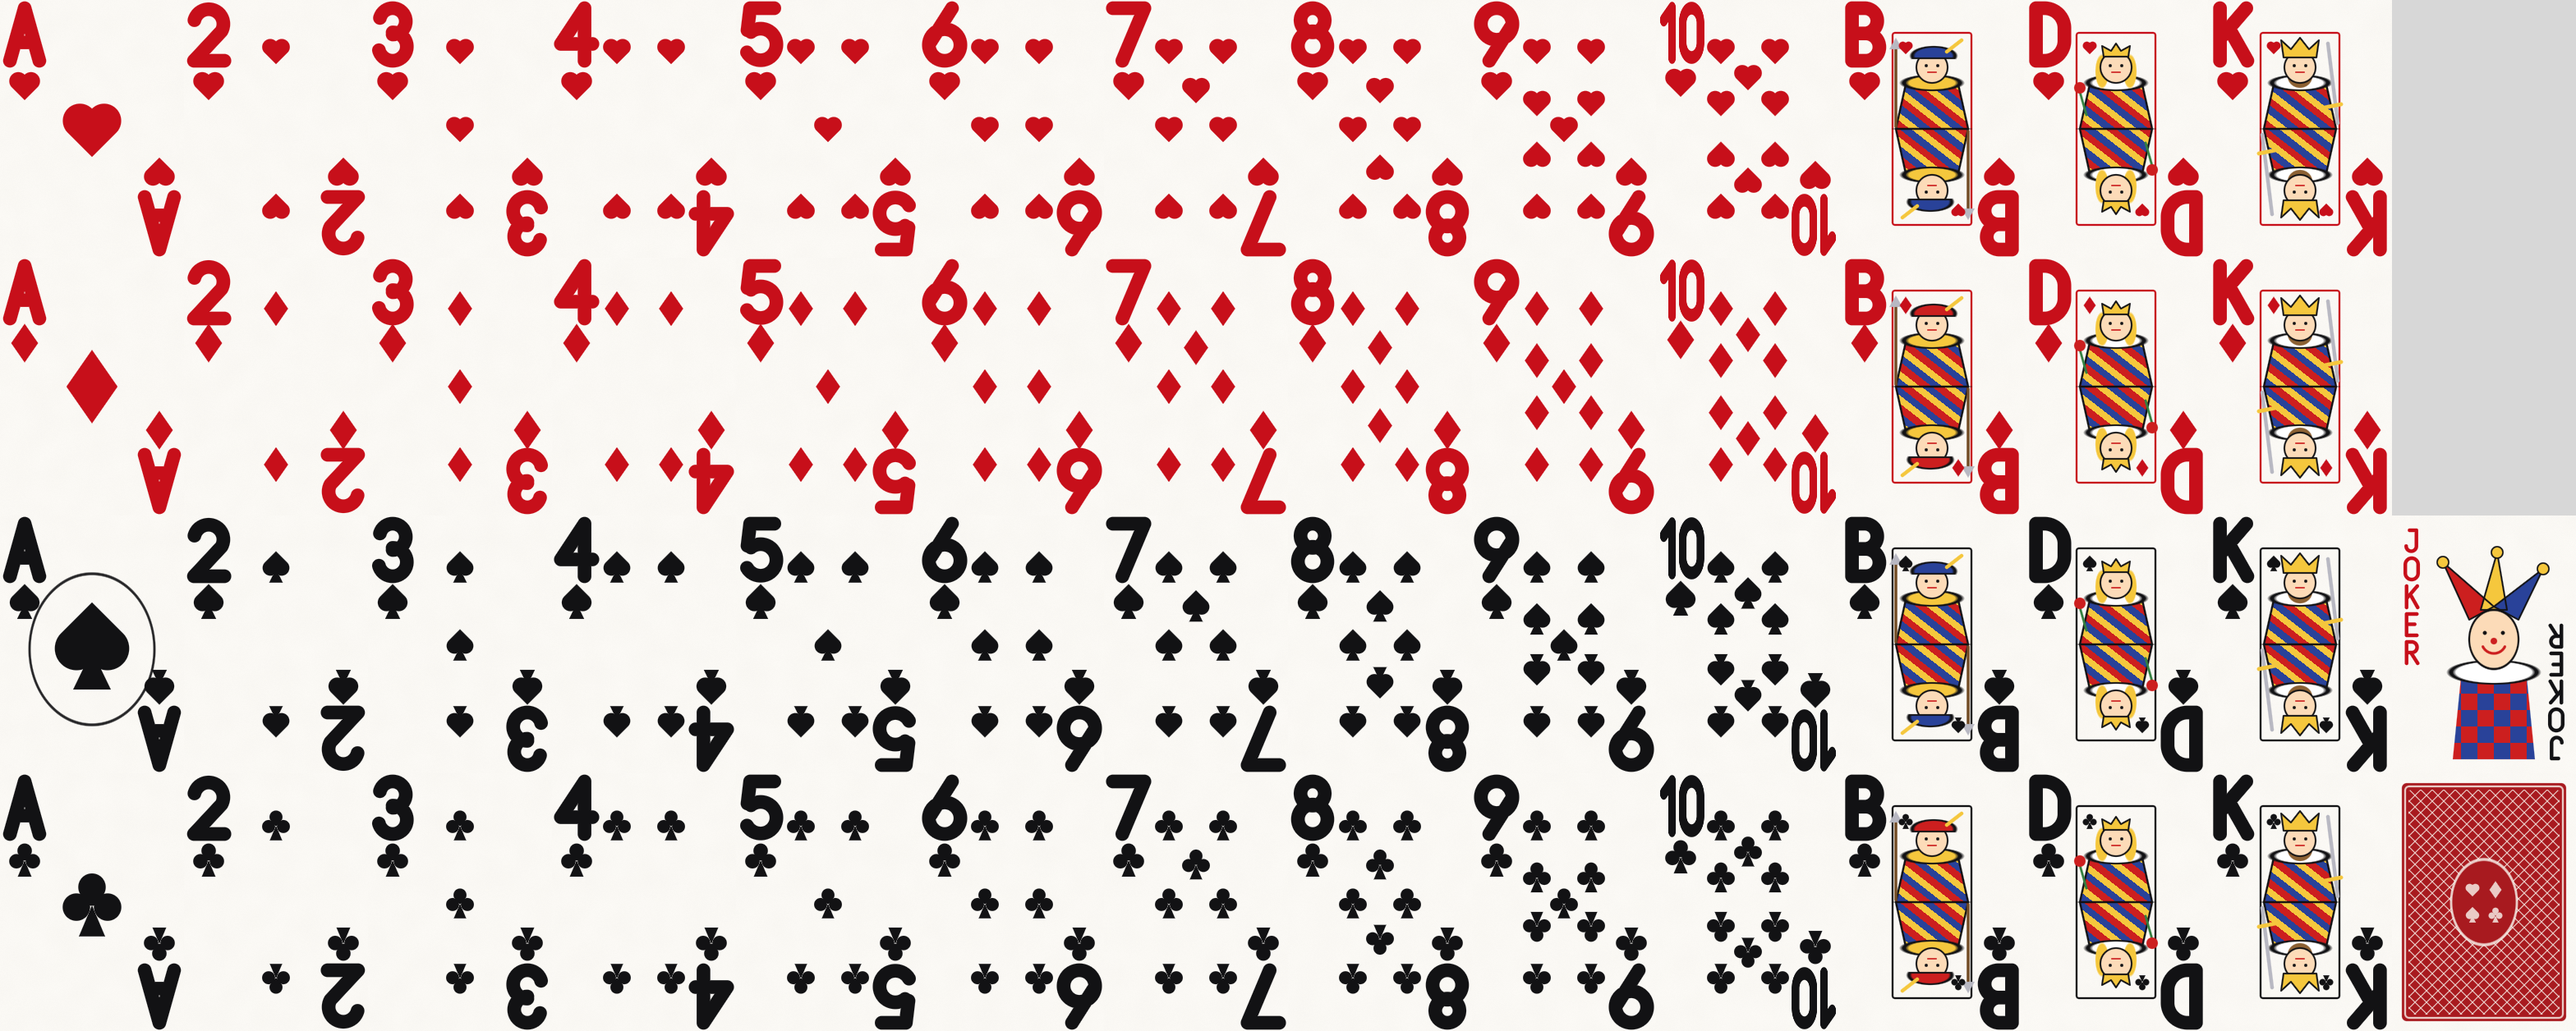
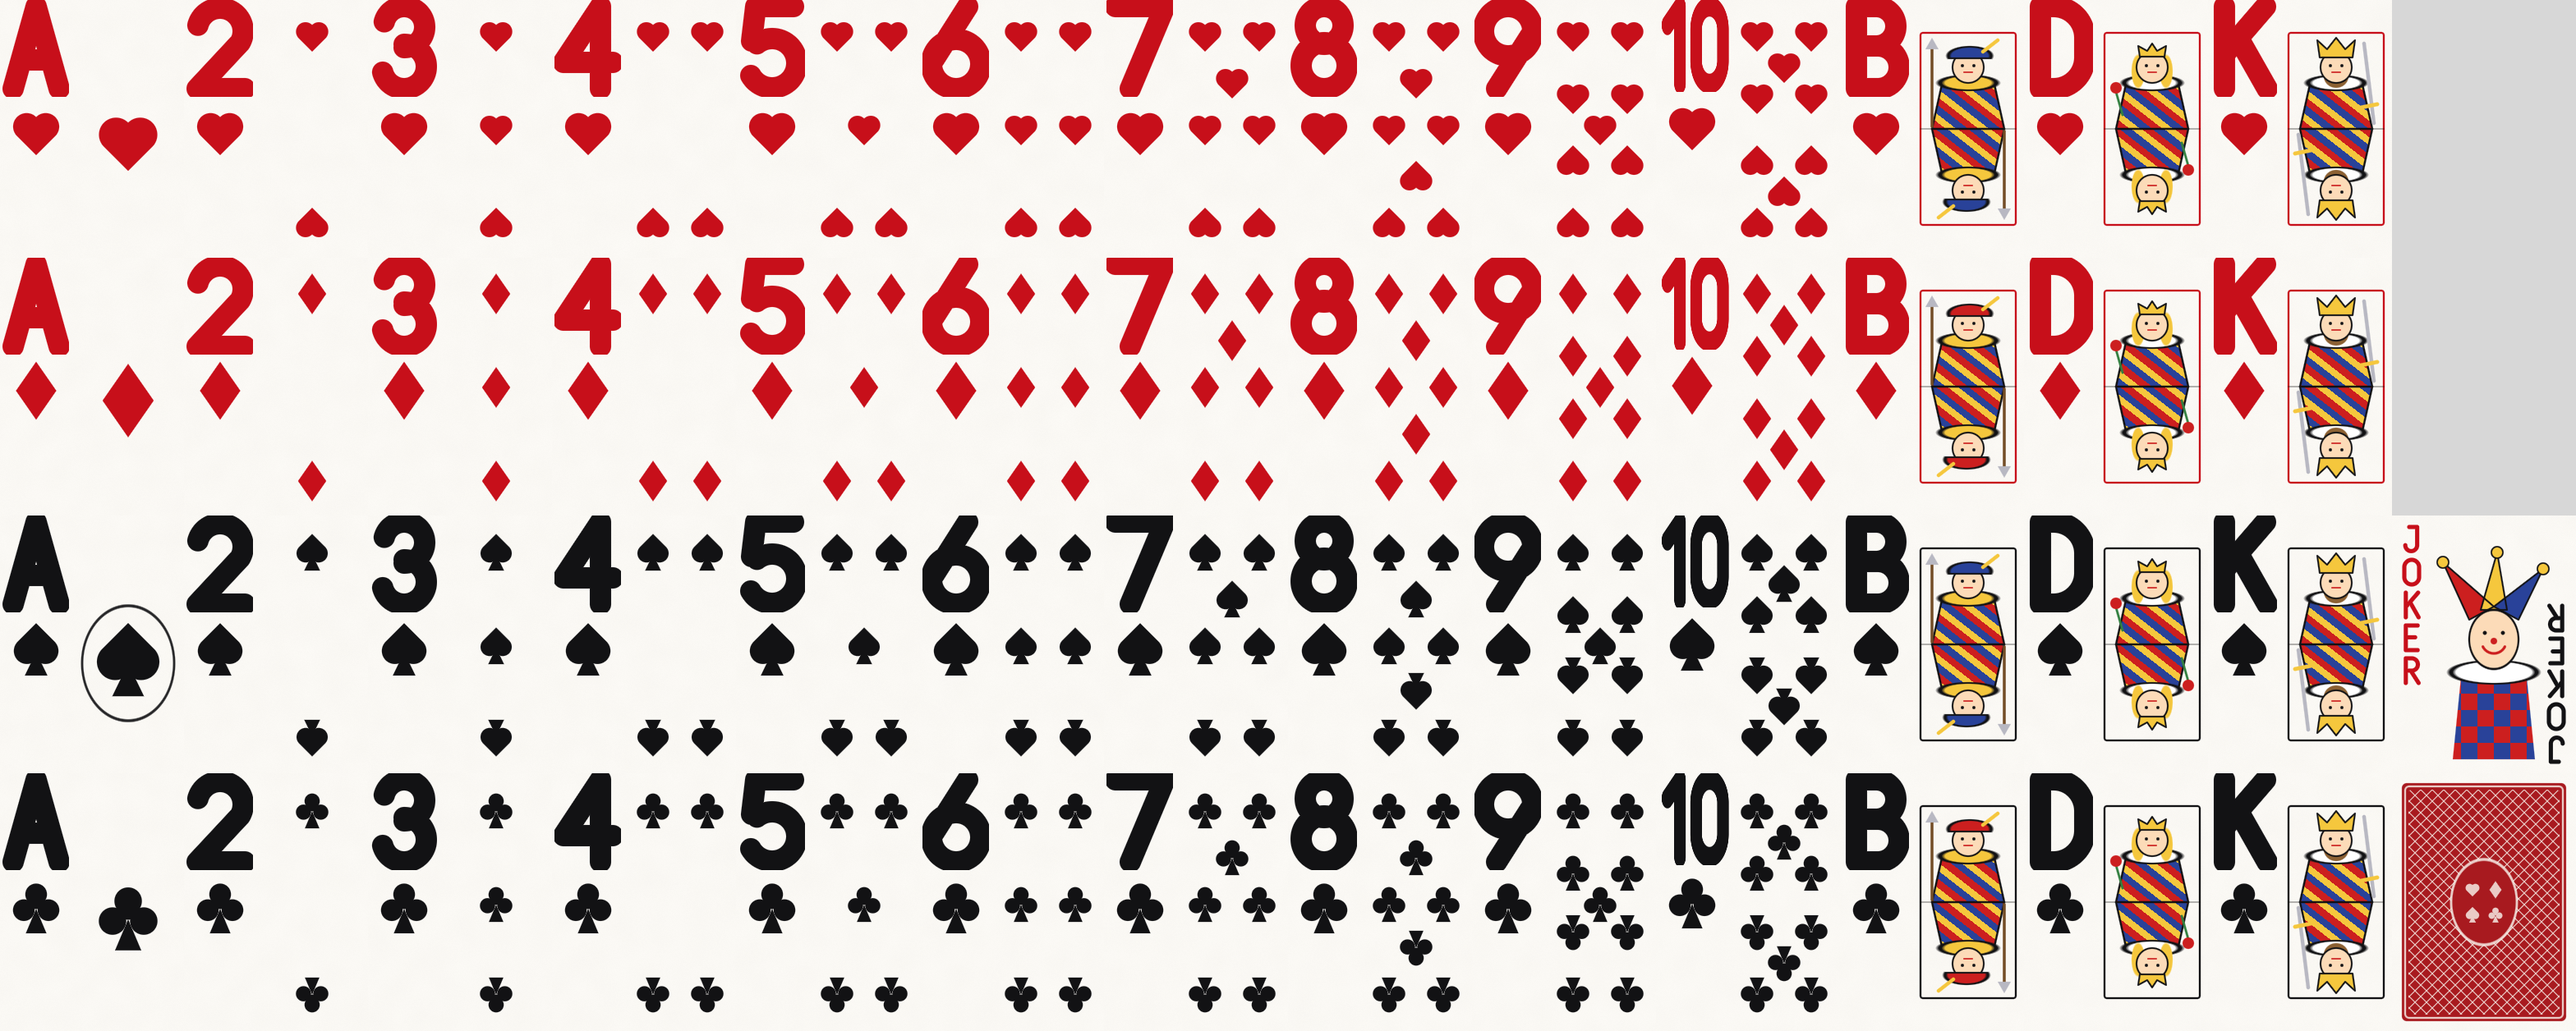
Repo für Veröffentlichung vorbereiten: MIT-Lizenz, README, .gitignore
- MIT-Lizenz hinzugefügt
- README überarbeitet: Badges, Download-Abschnitt, Funktionen, Screenshots,
  Build-Tabelle, Projektstruktur, Lizenz und Markenhinweis; neutrale
  Bezeichnung "Zahlensteine" in Repo-Texten
- .gitignore um Keystores und lokale Konfiguration ergänzt
- Kartenvorschau auf aktuelles Design (2.2.2) aktualisiert

Changed region(s): [[0.0, 0.0, 0.9375, 1.0], [0.9688, 0.59, 1.0, 0.7142]]

diff --git a/README.md b/README.md
@@ -1,32 +1,70 @@
 # Romme Cup Variety
 
-Unity-6-Spielesammlung (Android, Querformat) mit zwei klassischen Legespielen am realistischen Spieltisch:
+[![Release](https://img.shields.io/github/v/release/domezos2024/RommeCupVariety)](https://github.com/domezos2024/RommeCupVariety/releases/latest)
+[![Lizenz: MIT](https://img.shields.io/badge/Lizenz-MIT-blue.svg)](LICENSE)
+![Unity 6](https://img.shields.io/badge/Unity-6000.3-black?logo=unity)
+![Android 8.0+](https://img.shields.io/badge/Android-8.0%2B-3DDC84?logo=android&logoColor=white)
 
-- **Rummikub** – 106 Steine (1–13 in Schwarz, Rot, Blau, Orange, je doppelt, 2 Joker), Erstauslage 30 Punkte, offizielle Wertung.
+Zwei klassische Legespiele am realistischen 3D-Spieltisch für Android (Querformat), gebaut mit Unity 6:
+
+- **Zahlensteine** (Rommé mit Steinen) – 106 Steine (1–13 in Schwarz, Rot, Blau, Orange, je doppelt, 2 Joker), Erstauslage 30 Punkte.
 - **Rommé** – 110 Karten (zwei französische Blätter mit roter und blauer Rückseite, 6 Joker), Erstauslage 40 Punkte, Hand-Rommé doppelt.
 
-Solo gegen 1–3 Computergegner oder per Bluetooth mit 2–4 Geräten.
-
-## Realismus
-- Prozedural erzeugte Elfenbein-Steine mit gravierten Zahlen (Normal-Maps), Holztisch mit Filzeinlage und Messingintarsie, zweistufige Bänke, verdeckter Vorrat.
-- Französisches Blatt mit Index, Bildkarten (Bube, Dame, König), Joker und Papierstruktur; Stapel- und Ablagehöhe nach Kartenzahl.
-- Licht, weiche Schatten, Reflexionen, Raumnebel, Vignette und Staub im Lampenlicht.
-- Flugbögen, Austeilen, Aufsetzgeräusche; synthetisierte Klänge (Steinklacken, Kartenschnipsen, Mischen, Applaus, Raumklang).
-- Startspieler per Auslosung (Rummikub) bzw. rotierender Geber (Rommé), variable Bedenkzeit der Computergegner.
-
-## Projekt
-- Unity 6000.3.25f1, Built-in Render Pipeline, Linear Color Space.
-- `Assets/Scripts/Core` – Grafik-Grundlagen, Umgebung, Sound, UI-Theme.
-- `Assets/Scripts/App` – App-Start, Hauptmenü, gemeinsame Screens, Autotest.
-- `Assets/Scripts/Rummikub`, `Assets/Scripts/Karten` – Logik, Sitzung, Ansicht.
-- `Assets/Editor` – Build-Skripte (Android, Windows-Test) und Selbsttest.
-
-## Bauen und Testen
-- Selbsttest (Logik, Grafikbögen): `-executeMethod RommeCup.EditorTools.SelfTest.Run`
-- Windows-Testbuild: `-executeMethod RommeCup.EditorTools.BuildScript.BuildWindowsTest`
-- UI/UX-Autotest: `RommeCup.exe -autotest -shots <Ordner>` erzeugt Screenshots und `report.txt`.
-- Android-APK: `-buildTarget Android -executeMethod RommeCup.EditorTools.BuildScript.BuildAndroid`
+Solo gegen 1–3 Computergegner oder per **Bluetooth mit 2–4 Geräten** – ohne Internet, ohne Konto, ohne Werbung.
 
 ![Menü](Docs/screenshots/01_menu.png)
-![Rummikub](Docs/screenshots/07_rummi_tipp.png)
-![Rommé](Docs/screenshots/14_romme_spielmitte.png)
+
+## Download
+
+Die aktuelle APK gibt es unter **[Releases](https://github.com/domezos2024/RommeCupVariety/releases/latest)**.
+APK auf dem Android-Gerät öffnen und die Installation aus unbekannten Quellen erlauben (Android 8.0 oder neuer).
+
+## Funktionen
+
+- Prozedural erzeugte Elfenbein-Steine mit gravierten Zahlen, Holztisch mit Filzeinlage und Messingintarsie, zweistufige Bänke, verdeckter Vorrat.
+- Französisches Blatt mit großen, gut lesbaren Eckindizes, Bildkarten, Joker und Papierstruktur; Stapel- und Ablagehöhe nach Kartenzahl.
+- Licht, weiche Schatten, Reflexionen, Raumnebel und Staub im Lampenlicht.
+- Austeilen, Flugbögen und synthetisierte Klänge (Steinklacken, Kartenschnipsen, Mischen, Applaus).
+- Startspieler per Auslosung bzw. rotierender Geber, Tipp-Funktion, Zug zurücknehmen, Sortieren nach Farbe oder Wert.
+- Bluetooth-Mehrspieler: Gastgeber eröffnet, Mitspieler treten bei; verlässt jemand die Partie, übernimmt der Computer.
+
+| Zahlensteine | Rommé |
+|---|---|
+| ![Zahlensteine](Docs/screenshots/07_rummi_tipp.png) | ![Rommé](Docs/screenshots/14_romme_spielmitte.png) |
+
+## Bauen und Testen
+
+Voraussetzung: Unity **6000.3.25f1** mit Android Build Support (Built-in Render Pipeline, Linear Color Space).
+
+```bash
+Unity -batchmode -quit -projectPath . -executeMethod RommeCup.EditorTools.SelfTest.Run
+```
+
+| Aufgabe | Methode |
+|---|---|
+| Selbsttest (Logik, Karten-/Steinvorschau in `Builds/`) | `RommeCup.EditorTools.SelfTest.Run` (ohne `-nographics`) |
+| Android-APK | `-buildTarget Android -executeMethod RommeCup.EditorTools.BuildScript.BuildAndroid` |
+| Windows-Testbuild | `RommeCup.EditorTools.BuildScript.BuildWindowsTest` |
+| UI/UX-Autotest | `RommeCup.exe -autotest -shots <Ordner>` erzeugt Screenshots und `report.txt` |
+
+Der Bluetooth-Mehrspieler lässt sich mit zwei Android-Emulatoren testen (virtuelles Bluetooth über netsim).
+
+## Projektstruktur
+
+| Pfad | Inhalt |
+|---|---|
+| `Assets/Scripts/Core` | Grafik-Grundlagen, Umgebung, Sound, UI-Theme, Logging |
+| `Assets/Scripts/App` | App-Start, Hauptmenü, gemeinsame Screens, Autotest |
+| `Assets/Scripts/Rummikub` | Zahlensteine: Logik, Sitzung, Ansicht |
+| `Assets/Scripts/Karten` | Rommé: Logik, KI, Sitzung, Kartengrafik |
+| `Assets/Scripts/Net` | Bluetooth-Anbindung |
+| `Assets/Plugins/Android` | Java-Plugin für Bluetooth (RFCOMM) |
+| `Assets/Editor` | Build-Skripte und Selbsttest |
+
+## Lizenz
+
+[MIT](LICENSE) © 2026 Michael Bergfeld
+
+## Hinweis zu Marken
+
+„Rummikub“ ist eine eingetragene Marke der Kodkod (M.T.) Ltd. Dieses Projekt ist ein unabhängiges Hobbyprojekt und steht in keiner Verbindung zu den Markeninhabern.
